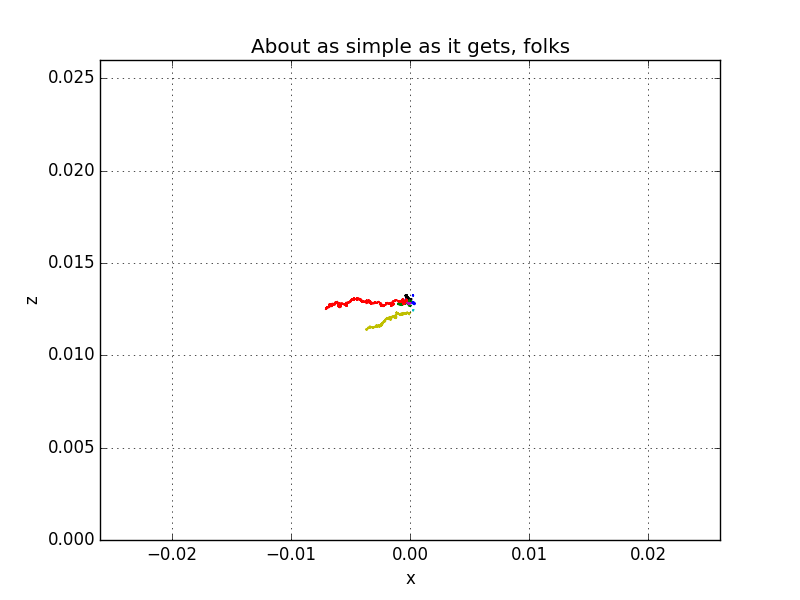
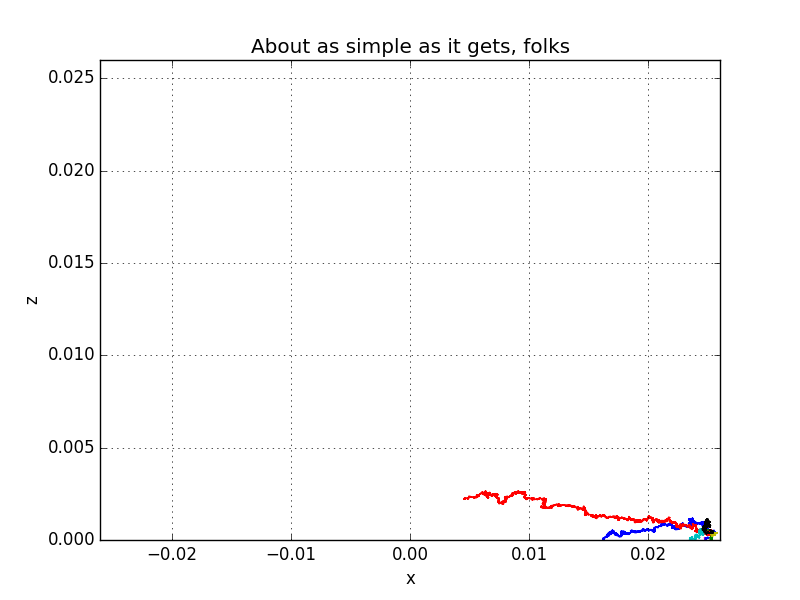
coordinate transform

Changed region(s): [[0.6875, 0.84, 0.9062, 0.9], [0.4062, 0.48, 0.5312, 0.54], [0.5938, 0.81, 0.6875, 0.84]]

diff --git a/code/faims_lagrange_ellipsoid_test.py b/code/faims_lagrange_ellipsoid_test.py
@@ -111,6 +111,8 @@ def xyz2rmn(h2,h3,x,y,z):
     rho = np.sqrt(k1)
     nu = np.sqrt(k2)
     mu = np.sqrt(k3)
+    if x<0:
+        nu=-nu
     return rho, mu, nu
 
 def long_temp(m_ion, v):
@@ -143,11 +145,11 @@ rbar = (r1+r2)/2.0
 B = eB(r1,r2,h2,h3)
 print B
 
-rmax=(r1+r2)/2+re
-rmin=(r1+r2)/2-re
-numax=0
-numin=0#np.sqrt(1-re*re/(r2*r2-h3*h3))
-mumax=h2
+rmax=r2
+rmin=r1
+numax=1e-4
+numin=1e-4
+mumax=h3
 mumin=h3
 
 #Init velocity: 

diff --git a/code/faims_lagrange_ellipsoid.py b/code/faims_lagrange_ellipsoid.py
@@ -151,9 +151,9 @@ numin=0#np.sqrt(1-re*re/(r2*r2-h3*h3))
 mumax=h2
 mumin=h3
 
-zmax = re+1e-4#np.sqrt(r2*r2-h3*h3)
-zmin = 1e-4#np.sqrt(r1*r1-h3*h3)
-ymax = re
+zmax = re#np.sqrt(r2*r2-h3*h3)
+zmin = re#np.sqrt(r1*r1-h3*h3)
+ymax = 0
 ymin = 0
 xmax = rbar+re
 xmin = rbar-re
